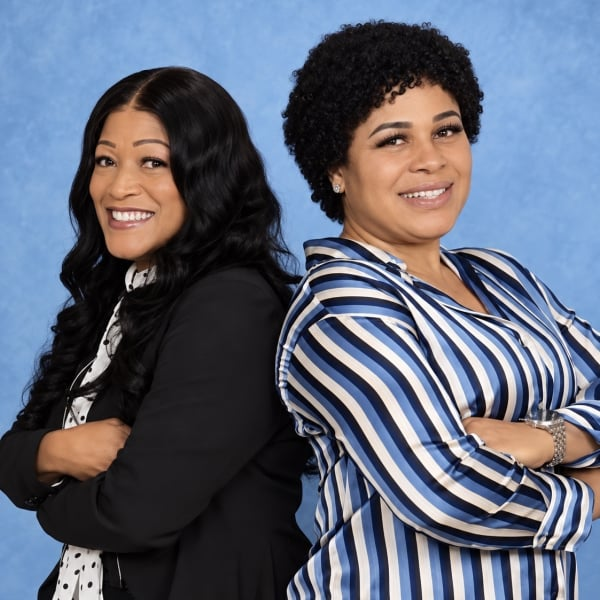
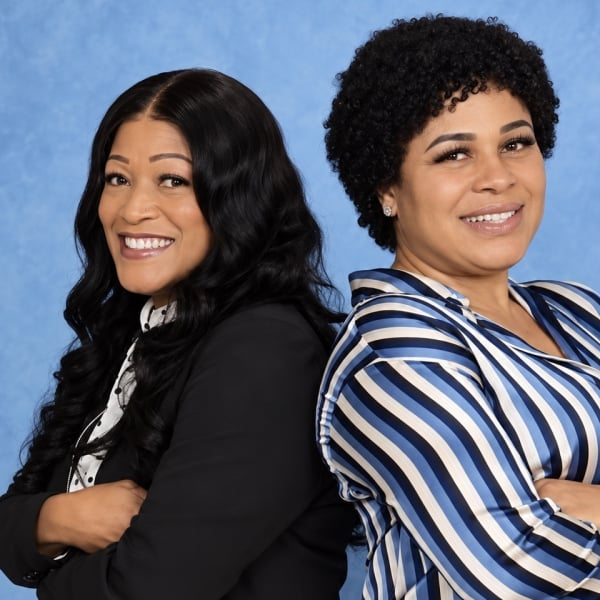
design: crop the two-provider photo tighter, 960x960 (client)
"Crop it more": a 960x960 cut from x=10, y=70 of the supplied frame,
closer on the faces and clear of the watch on the right edge. Still a
lossless cut, pixel-identical to that region of the original.

diff --git a/lib/content.ts b/lib/content.ts
@@ -2575,10 +2575,10 @@ export function cardPosterFor(href: string): string | undefined {
  * first paint.
  *
  * CROPPED SQUARE, 2026-10-30 (client request, "crop the providers group
- * image"): the supplied 1123x1231 frame lost the empty backdrop above
- * the heads (55px) and 53px off the bottom. A cut, not a resample: the 1123x1123
- * that remains is pixel-identical to that region of the original, and is still
- * lossless. The width was kept because both elbows already touch the edges.
+ * image", then "crop it more"): a 960x960 cut of the supplied 1123x1231 frame,
+ * from x=10, y=70. That keeps a little air above Ofoegbu's hair, ends below the
+ * folded arms, and stops short of her watch on the right edge. A cut, not a
+ * resample: pixel-identical to that region of the original, still lossless.
  *
  * LEFT IS WHITAKER, RIGHT IS OFOEGBU: the left figure wears the same black
  * blazer and polka-dot blouse as Whitaker's studio portrait. The alt carries no
@@ -2589,8 +2589,8 @@ export const CLOSING_PORTRAIT = {
   tag: 'Health is wealth.',
   image: {
     src: '/images/providers/providers-together.webp',
-    width: 1123,
-    height: 1123,
+    width: 960,
+    height: 960,
     alt: 'Funmilayo Whitaker and Anastasia O. Ofoegbu standing back to back with their arms folded, smiling, against a blue studio backdrop.',
   },
 } as const;

diff --git a/app/providers/page.tsx b/app/providers/page.tsx
@@ -63,7 +63,7 @@ export default function ProvidersPage() {
             photograph of both providers together (CLOSING_PORTRAIT), and this
             page, the one about the two of them, is where it does the most work.
 
-            A SPLIT HEADER RATHER THAN PageHero, because the photo is a 1123x1123
+            A SPLIT HEADER RATHER THAN PageHero, because the photo is a 960x960
             square and PageHero is a full-bleed landscape slot: stretched across
             1440px it would be upscaled and soft, and white copy over two faces
             is the contrast problem again. Dark text on np-neutral-50 has no

diff --git a/CLAUDE.md b/CLAUDE.md
@@ -639,9 +639,10 @@ The homepage ends (after the contact section, before the footer) with
 "Health is wealth." Content is `CLOSING_PORTRAIT` in `lib/content.ts`.
 
 - **The photo is served at the exact pixels supplied, lossless**
-  (`public/images/providers/providers-together.webp`, 1123x1123), the same rule
-  as the provider portraits. **Cropped square on 2026-10-30** (client request):
-  backdrop trimmed above the heads and a little off the bottom, width kept. It is
+  (`public/images/providers/providers-together.webp`, 960x960), the same rule
+  as the provider portraits. **Cropped square on 2026-10-30** (client request,
+  tightened the same day to "crop it more"): a 960x960 cut from x=10, y=70 of
+  the original, closer on the faces and clear of Ofoegbu's watch. It is
   a cut of the supplied pixels, not a resample, so the rule still holds; the
   uncropped 1123x1231 original is in git history (ab2635a). Plain `<img>`, lazy, no next/image.
 - **Whitaker is on the left, Ofoegbu on the right** (matched to Whitaker's studio
